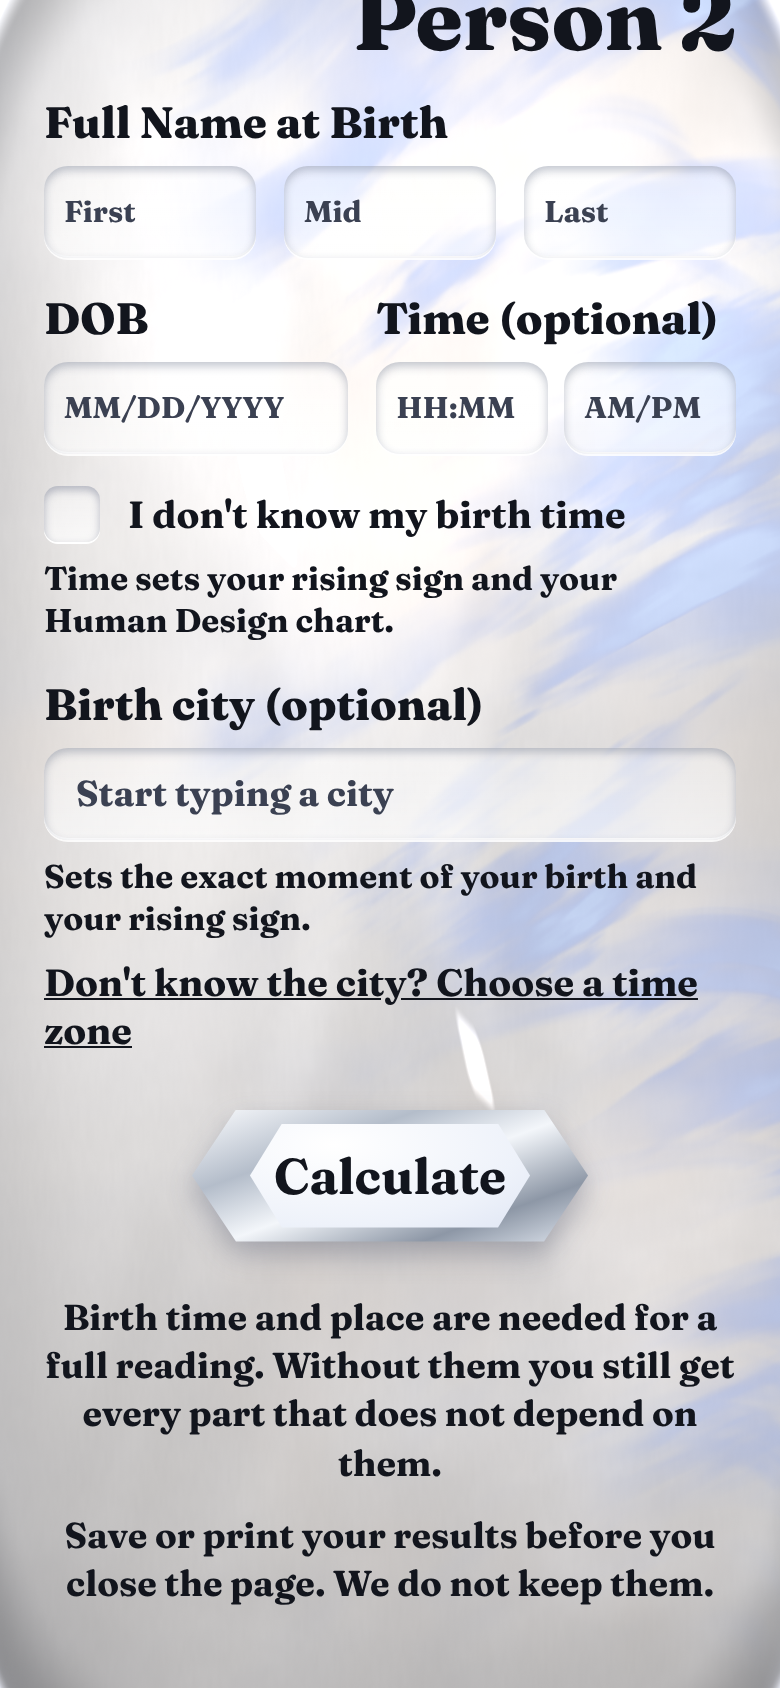
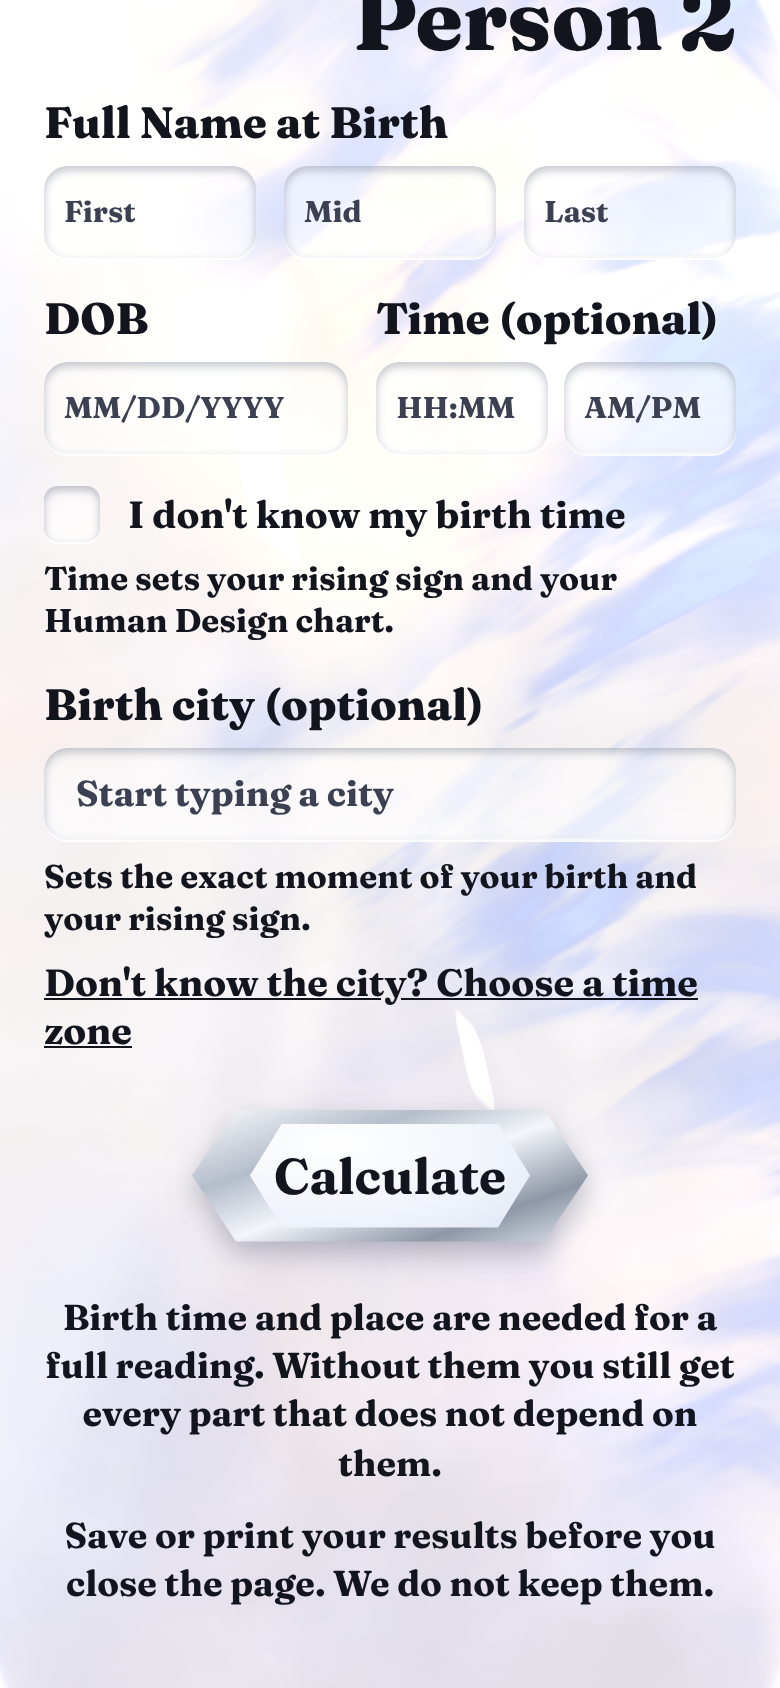
Moonstone: remove all grey; pearl cream/peach/cool body, bounded blue sheen
Claude-Session: https://claude.ai/code/session_01DRAcaZvypgnSaCTMdJvvGx

diff --git a/stone/stone-full.html b/stone/stone-full.html
@@ -60,16 +60,11 @@ void main(){
     }
     // fine grain (irregular, low contrast) so the interior reads as crystal not haze
     float grain=vn(vec3(p*vec2(310.,70.),2.))*.5+vn(vec3(p*vec2(160.,38.),7.))*.5;
-    vec3 body=vec3(.955,.94,.925)*(.985+.015*grain);
-    body=mix(body,vec3(.90,.90,.93),clamp(cloud,0.,1.)*.45);
-    float wm=smoothstep(.45,.75,fbm(vec3(p*2.2,4.)));body=mix(body,vec3(.995,.945,.90),wm*.45);
-    float dif=clamp(dot(N,Ld)*.7+.45,0.,1.);body*=.72+.24*dif;
-    body*=.93+.09*smoothstep(-.4,.5,(-p.x+p.y)*1.1);
-    // thin edge: glassy, takes on the surface colour and a darker total-internal-reflection ring
-    body*=1.-.09*smoothstep(.6,1.,d);
-    float rim=smoothstep(.72,1.,d);
-    body=mix(body,bgc*.88,rim*rim*.38);
-    body*=1.-.22*smoothstep(.88,.985,d)*(1.-smoothstep(.985,1.,d));
+    // clean pearl body: colour drifts between cream, soft peach and cool white. No darkening anywhere.
+    vec3 body=vec3(.935,.912,.880);
+    float wm=smoothstep(.40,.78,fbm(vec3(p*1.6,4.)));body=mix(body,vec3(.985,.915,.855),wm*.75);
+    float cm=smoothstep(.45,.80,fbm(vec3(p*1.3,13.)));body=mix(body,vec3(.885,.915,.985),cm*.70);
+    body=mix(body,vec3(.95,.925,.965),clamp(cloud,0.,1.)*.5);
     blue*=1.-smoothstep(.0,1.,1.-length(p-vec2(-.14,.915))/.16);
     float bl=min(1.-exp(-blue*2.0),.62);
     vec3 deep=vec3(.30,.46,.92),lite=vec3(.74,.85,1.);
@@ -78,7 +73,8 @@ void main(){
     // polished surface
     vec3 r=reflect(-V,N);float F=.045+.955*pow(1.-max(dot(N,V),0.),5.);
     vec3 ev=env(r);float el=dot(ev,vec3(.33));
-    c*=.90+.10*smoothstep(.25,.9,el);
+    c*=mix(vec3(.91,.92,.99),vec3(1.),smoothstep(.25,.85,el));
+    
     c+=ev*(F*1.0+.05)*vec3(.98,.99,1.);
     c+=vec3(1.,1.,1.02)*boxes(r)*(.55+.45*F*6.)*.95;
     float edgeLit=smoothstep(.965,.995,d)*smoothstep(-.1,.7,(-p.x+p.y)*1.4);c+=vec3(1.)*edgeLit*.30;
